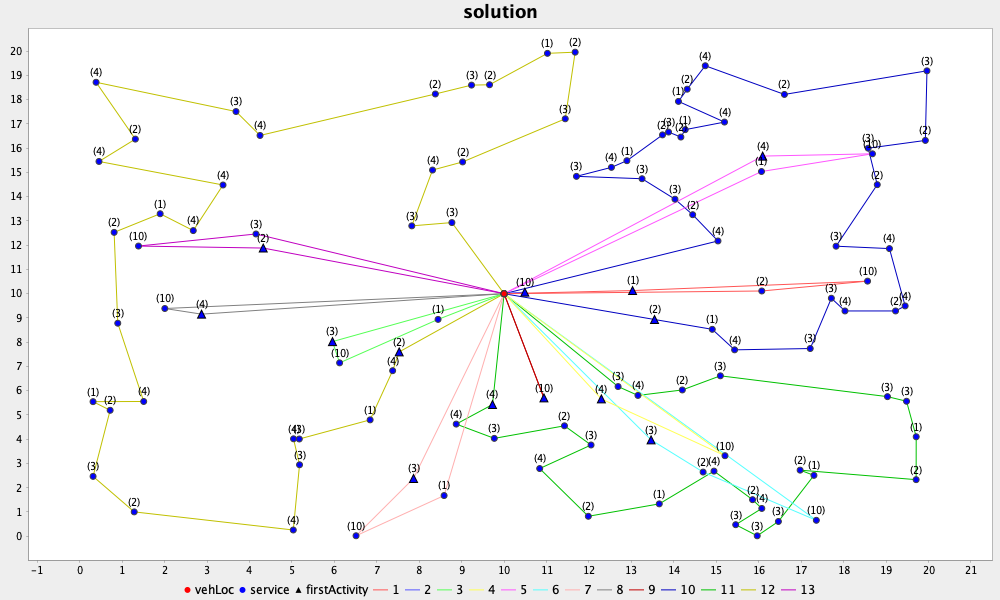
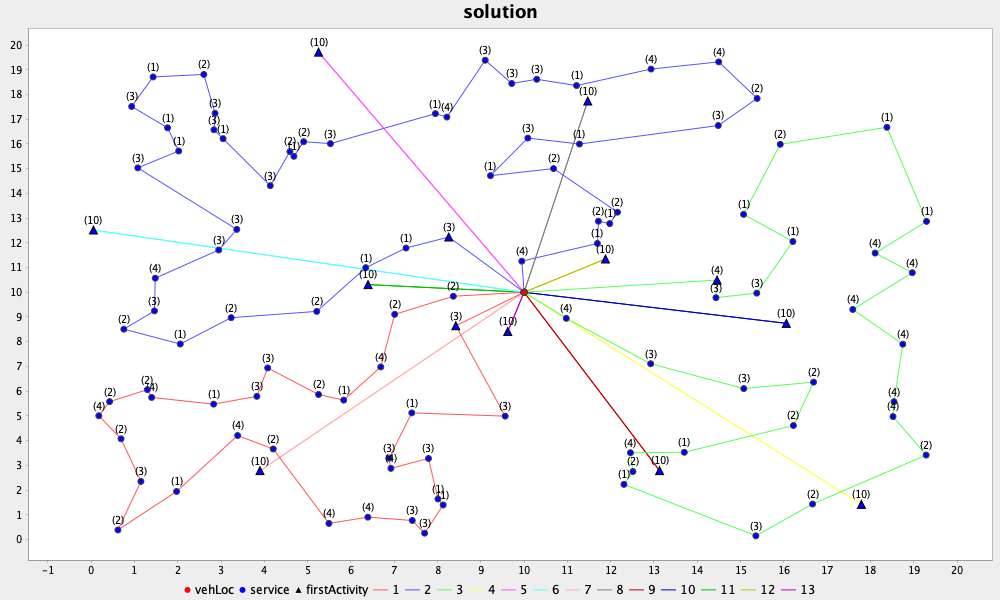
Got customer max distance working

diff --git a/src/main/java/org/example/App.java b/src/main/java/org/example/App.java
@@ -1,11 +1,11 @@
 package org.example;
 
-import com.graphhopper.jsprit.core.algorithm.state.StateId;
-import com.graphhopper.jsprit.analysis.toolbox.GraphStreamViewer;
-import com.graphhopper.jsprit.analysis.toolbox.GraphStreamViewer.Label;
+import com.graphhopper.jsprit.analysis.toolbox.Plotter;
 import com.graphhopper.jsprit.core.algorithm.VehicleRoutingAlgorithm;
-import com.graphhopper.jsprit.core.algorithm.box.SchrimpfFactory;
+import com.graphhopper.jsprit.core.algorithm.box.Jsprit;
+import com.graphhopper.jsprit.core.algorithm.state.StateId;
 import com.graphhopper.jsprit.core.algorithm.state.StateManager;
+import com.graphhopper.jsprit.core.algorithm.state.VehicleDependentTraveledDistance;
 import com.graphhopper.jsprit.core.problem.Location;
 import com.graphhopper.jsprit.core.problem.VehicleRoutingProblem;
 import com.graphhopper.jsprit.core.problem.constraint.ConstraintManager;
@@ -18,7 +18,6 @@ import com.graphhopper.jsprit.core.problem.vehicle.VehicleImpl;
 import com.graphhopper.jsprit.core.problem.vehicle.VehicleTypeImpl;
 import com.graphhopper.jsprit.core.reporting.SolutionPrinter;
 import com.graphhopper.jsprit.core.util.Solutions;
-import com.graphhopper.jsprit.analysis.toolbox.Plotter;
 
 import java.io.File;
 import java.util.*;
@@ -42,7 +41,7 @@ public class App
     final static int CUSTOMER_VEHICLE_VARIABLE_DISTANCE_COST = 2;
 
     final static double WALMART_VEHICLE_MAX_DISTANCE = 35*8;
-    final static double CUSTOMER_MAX_DISTANCE_RATIO = .0001;
+    final static double CUSTOMER_MAX_DISTANCE_RATIO = 0;
 
     final static int STORE_X = 10;
     final static int STORE_Y = 10;
@@ -51,7 +50,7 @@ public class App
     final static int VOLUME_INDEX = 0;
     final static int MAX_STOP_INDEX = 1;
 
-    final static Random r = new Random();
+    final static Random r = new Random(1234);
 
     final static Map<Vehicle, Double> maxDistanceMap = new HashMap<>();
 
@@ -78,6 +77,7 @@ public class App
         }
 
         // Add random store pickup customers
+        List<Service> customerHomes = new ArrayList<>();
         for (int i=0; i<NUM_SUPER_SHOPPERS; i++) {
             Service service = getNewService(
                     String.valueOf(NUM_DELIVERIES + i),
@@ -88,14 +88,27 @@ public class App
                     List.of("customer " + i)
             );
             vrpBuilder.addJob(service);
-            vrpBuilder.addVehicle(getCustomerVehicle(i, service.getLocation()));
+            customerHomes.add(service);
         }
 
         // Solve
         VehicleRoutingProblem problem = vrpBuilder.build();
-        addMaxDistanceConstraint(problem, maxDistanceMap);
+        StateManager stateManager = new StateManager(problem);
+        ConstraintManager constraintManager = new ConstraintManager(problem, stateManager);
 
-        VehicleRoutingProblemSolution solution = solve(problem);
+        for (int i=0; i<NUM_SUPER_SHOPPERS; i++) {
+            vrpBuilder.addVehicle(getCustomerVehicle(problem, i, customerHomes.get(i).getLocation()));
+        }
+
+        // This is incredibly dumb, but we have to build the problem to get the distance to the customer
+        // to build the vehicle, but then we add the vehicle to the builder, so we have to re-build the problem
+        problem = vrpBuilder.build();
+        stateManager = new StateManager(problem);
+        constraintManager = new ConstraintManager(problem, stateManager);
+
+        addMaxDistanceConstraint(problem, stateManager, constraintManager, maxDistanceMap);
+
+        VehicleRoutingProblemSolution solution = solve(problem, stateManager, constraintManager);
 
         solution.getCost();
 
@@ -107,7 +120,7 @@ public class App
         plotter.plot("output/solution.png", "solution");
 
         // Animate
-        new GraphStreamViewer(problem, solution).labelWith(Label.ID).setRenderDelay(10).display();
+//        new GraphStreamViewer(problem, solution).labelWith(Label.ID).setRenderDelay(10).display();
     }
 
     public static void createOutputDir() {
@@ -121,9 +134,10 @@ public class App
         }
     }
 
-    public static VehicleRoutingProblemSolution solve(VehicleRoutingProblem problem) {
-        // Get the algorithm out-of-the-box.
-        VehicleRoutingAlgorithm algorithm = new SchrimpfFactory().createAlgorithm(problem);
+    public static VehicleRoutingProblemSolution solve(VehicleRoutingProblem problem, StateManager stateManager, ConstraintManager constraintManager) {
+        VehicleRoutingAlgorithm algorithm = Jsprit.Builder.newInstance(problem)
+                .setStateAndConstraintManager(stateManager, constraintManager)
+                .buildAlgorithm();
 
         // Search for a solution
         Collection<VehicleRoutingProblemSolution> solutions = algorithm.searchSolutions();
@@ -133,14 +147,14 @@ public class App
     }
 
     public static VehicleImpl getWalmartVehicle() {
-        VehicleTypeImpl vehicleType = VehicleTypeImpl.Builder.newInstance("walmartVehicleType")
+        VehicleTypeImpl vehicleType = VehicleTypeImpl.Builder.newInstance("walmartVehicle")
                 .addCapacityDimension(VOLUME_INDEX, WALMART_VEHICLE_CAPACITY)
                 .addCapacityDimension(MAX_STOP_INDEX, WALMART_VEHICLE_MAX_STOPS)
                 .setFixedCost(WALMART_VEHICLE_FIXED_COST)
                 .setCostPerDistance(WALMART_VEHICLE_VARIABLE_DISTANCE_COST)
                 .build();
 
-        VehicleImpl walmartVehicle = VehicleImpl.Builder.newInstance("walmartVehicleType")
+        VehicleImpl walmartVehicle = VehicleImpl.Builder.newInstance("walmartVehicle")
                 .setStartLocation(Location.newInstance(STORE_X, STORE_Y))
                 .setType(vehicleType)
                 .build();
@@ -149,34 +163,27 @@ public class App
         return walmartVehicle;
     }
 
-    public static VehicleImpl getCustomerVehicle(int vehicleNum, Location customerLocation) {
-        VehicleTypeImpl vehicleType = VehicleTypeImpl.Builder.newInstance("customerVehicleType " + vehicleNum)
+    public static VehicleImpl getCustomerVehicle(VehicleRoutingProblem problem, int vehicleNum, Location customerLocation) {
+        VehicleTypeImpl vehicleType = VehicleTypeImpl.Builder.newInstance("customerVehicle " + vehicleNum)
                 .addCapacityDimension(VOLUME_INDEX, CUSTOMER_VEHICLE_CAPACITY)
                 .addCapacityDimension(MAX_STOP_INDEX, CUSTOMER_VEHICLE_MAX_STOPS)
                 .setFixedCost(CUSTOMER_VEHICLE_FIXED_COST)
                 .setCostPerDistance(CUSTOMER_VEHICLE_VARIABLE_DISTANCE_COST)
                 .build();
 
-        VehicleImpl customerVehicle = VehicleImpl.Builder.newInstance("customerVehicleType " + vehicleNum)
+        VehicleImpl customerVehicle = VehicleImpl.Builder.newInstance("customerVehicle " + vehicleNum)
                 .setStartLocation(Location.newInstance(STORE_X, STORE_Y))
                 .setType(vehicleType)
                 .addSkill("customer " + vehicleNum)
                 .build();
 
-        maxDistanceMap.put(customerVehicle, getCustomerMaxDistance(customerLocation));
+        Location storeLocation = problem.getAllLocations().stream()
+                .filter(l -> l.getCoordinate().getX() == 10 && l.getCoordinate().getY() == 10)
+                .findFirst().orElseThrow();
+        double transitDistance = problem.getTransportCosts().getDistance(storeLocation, customerLocation, 1, customerVehicle);
+        maxDistanceMap.put(customerVehicle, 2 * transitDistance * (1 + CUSTOMER_MAX_DISTANCE_RATIO));
+
         return customerVehicle;
-    }
-
-    public static double getCustomerMaxDistance(Location customerLocation) {
-        double customerX = customerLocation.getCoordinate().getX();
-        double customerY = customerLocation.getCoordinate().getY();
-
-        double customerDistanceToStore = Math.sqrt(
-                Math.pow(STORE_X - customerX, 2) +
-                        Math.pow(STORE_Y - customerY, 2)
-        );
-
-        return customerDistanceToStore * (1 + CUSTOMER_MAX_DISTANCE_RATIO);
     }
 
     public static Service getNewService(String id, int rangeMin, int rangeMax, int weightMin, int weightMax, Collection<String> skills) {
@@ -192,23 +199,26 @@ public class App
                 .build();
     }
 
-    private static void addMaxDistanceConstraint(VehicleRoutingProblem problem, Map<Vehicle, Double> vehicleDistanceMap) {
+    private static void addMaxDistanceConstraint(VehicleRoutingProblem problem, StateManager stateManager, ConstraintManager constraintManager, Map<Vehicle, Double> vehicleDistanceMap) {
 
-        StateManager stateManager = new StateManager(problem);
-        StateId distanceId = stateManager.createStateId("distance");
+        StateId maxDistance = stateManager.createStateId("max-distance");
 
-        DistanceUpdater distanceUpdater =
-                new DistanceUpdater(distanceId, stateManager, problem.getTransportCosts());
+        stateManager.addStateUpdater(
+                new VehicleDependentTraveledDistance(
+                        problem.getTransportCosts(),
+                        stateManager,
+                        maxDistance,
+                        vehicleDistanceMap.keySet()
+                )
+        );
 
-        stateManager.addStateUpdater(distanceUpdater);
         HardActivityConstraint distanceConstraint = new MaxDistanceConstraint(
                 stateManager,
-                distanceId,
+                maxDistance,
                 problem.getTransportCosts(),
                 vehicleDistanceMap
         );
 
-        ConstraintManager constraintManager = new ConstraintManager(problem, stateManager);
-        constraintManager.addConstraint(distanceConstraint, ConstraintManager.Priority.LOW);
+        constraintManager.addConstraint(distanceConstraint, ConstraintManager.Priority.CRITICAL);
     }
 }
